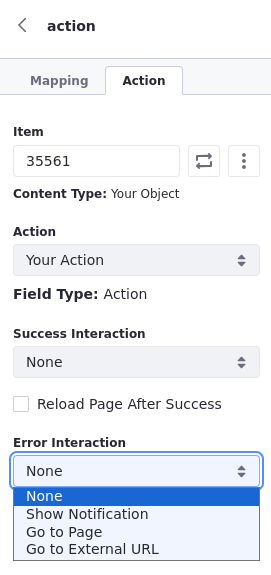
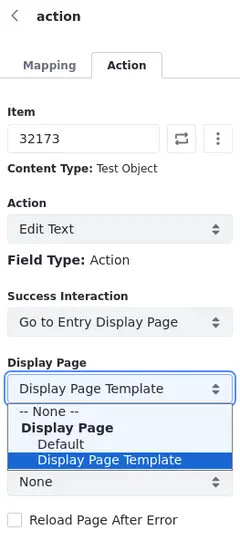
LRDOCS-12339 added information about Go to Entry Display Page option

diff --git a/docs/dxp/latest/en/building-applications/objects/creating-and-managing-objects/actions/using-manual-actions.md b/docs/dxp/latest/en/building-applications/objects/creating-and-managing-objects/actions/using-manual-actions.md
@@ -13,9 +13,9 @@ taxonomy-category-names:
 
 When you use the standalone trigger for object actions, the actions become manual instead of automatic. Trigger these actions using these methods:
 
-* [The object's UI](#trigger-actions-via-the-object-entry-ui)
-* [Dedicated action APIs](#trigger-actions-via-apis)
-* [Buttons in pages](#trigger-actions-via-pages)
+- [The object's UI](#trigger-actions-via-the-object-entry-ui)
+- [Dedicated action APIs](#trigger-actions-via-apis)
+- [Buttons in pages](#trigger-actions-via-pages)
 
 This example creates a standalone action for sending notifications.
 
@@ -134,7 +134,7 @@ The button now executes the selected action when clicked.
 
 When a user clicks on a component mapped to an action, you can choose what happens when that action succeeds or fails.
 
-There are four options available for both outcomes:
+There are four options available for both outcomes and an extra success interaction:
 
 1. **None**: Nothing happens after the action is performed.
 
@@ -144,7 +144,9 @@ There are four options available for both outcomes:
 
 1. **Go to External URL**: Navigate to an external URL.
 
-![You can choose what happens after an action is performed when the user clicks on a button or fragment mapped to an action: nothing, the user receives a notification, the user is redirected to a page, or the user is redirected to an external URL.](./using-manual-actions/images/07.png)
+1. **Go to Entry Display Page** (only for Success Interactions): When mapped to a specific object entry with an action in place, you can select this option as a success interaction. It redirects the user to a display page template.
+
+![Go to Entry Display Page is an extra Success Interaction option that can be used to redirect the user to a display page template.](./using-manual-actions/images/07.png)
 
 The selected option is executed after the user triggers the action.
 
